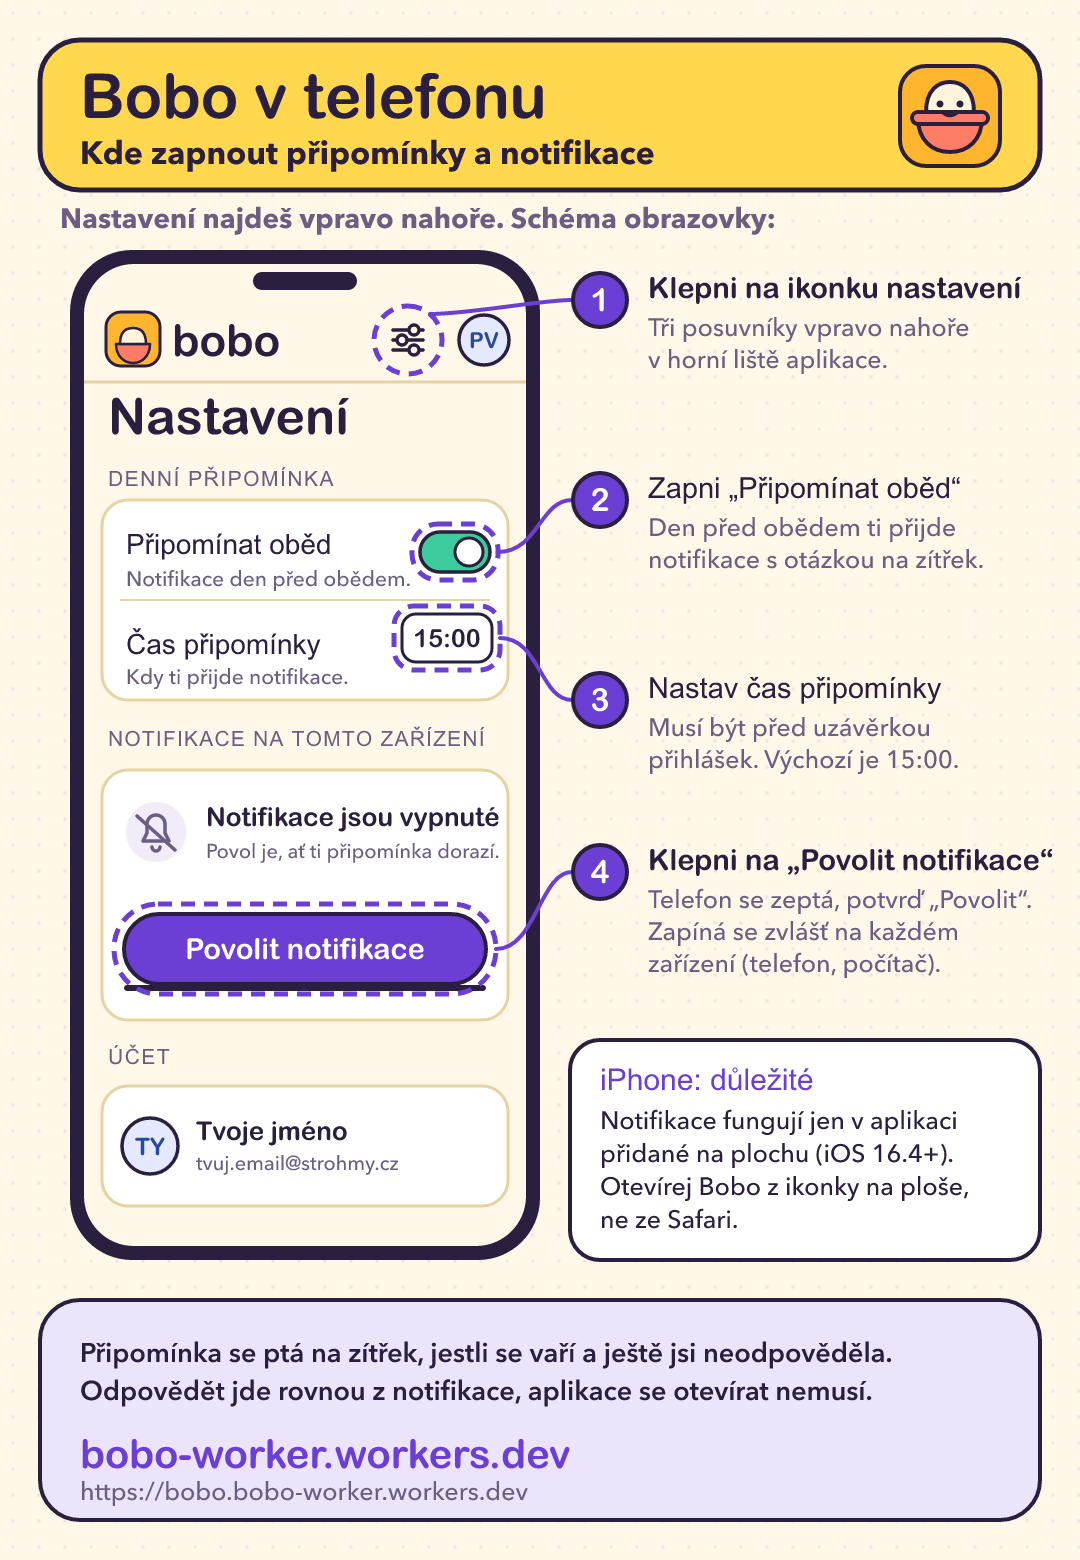
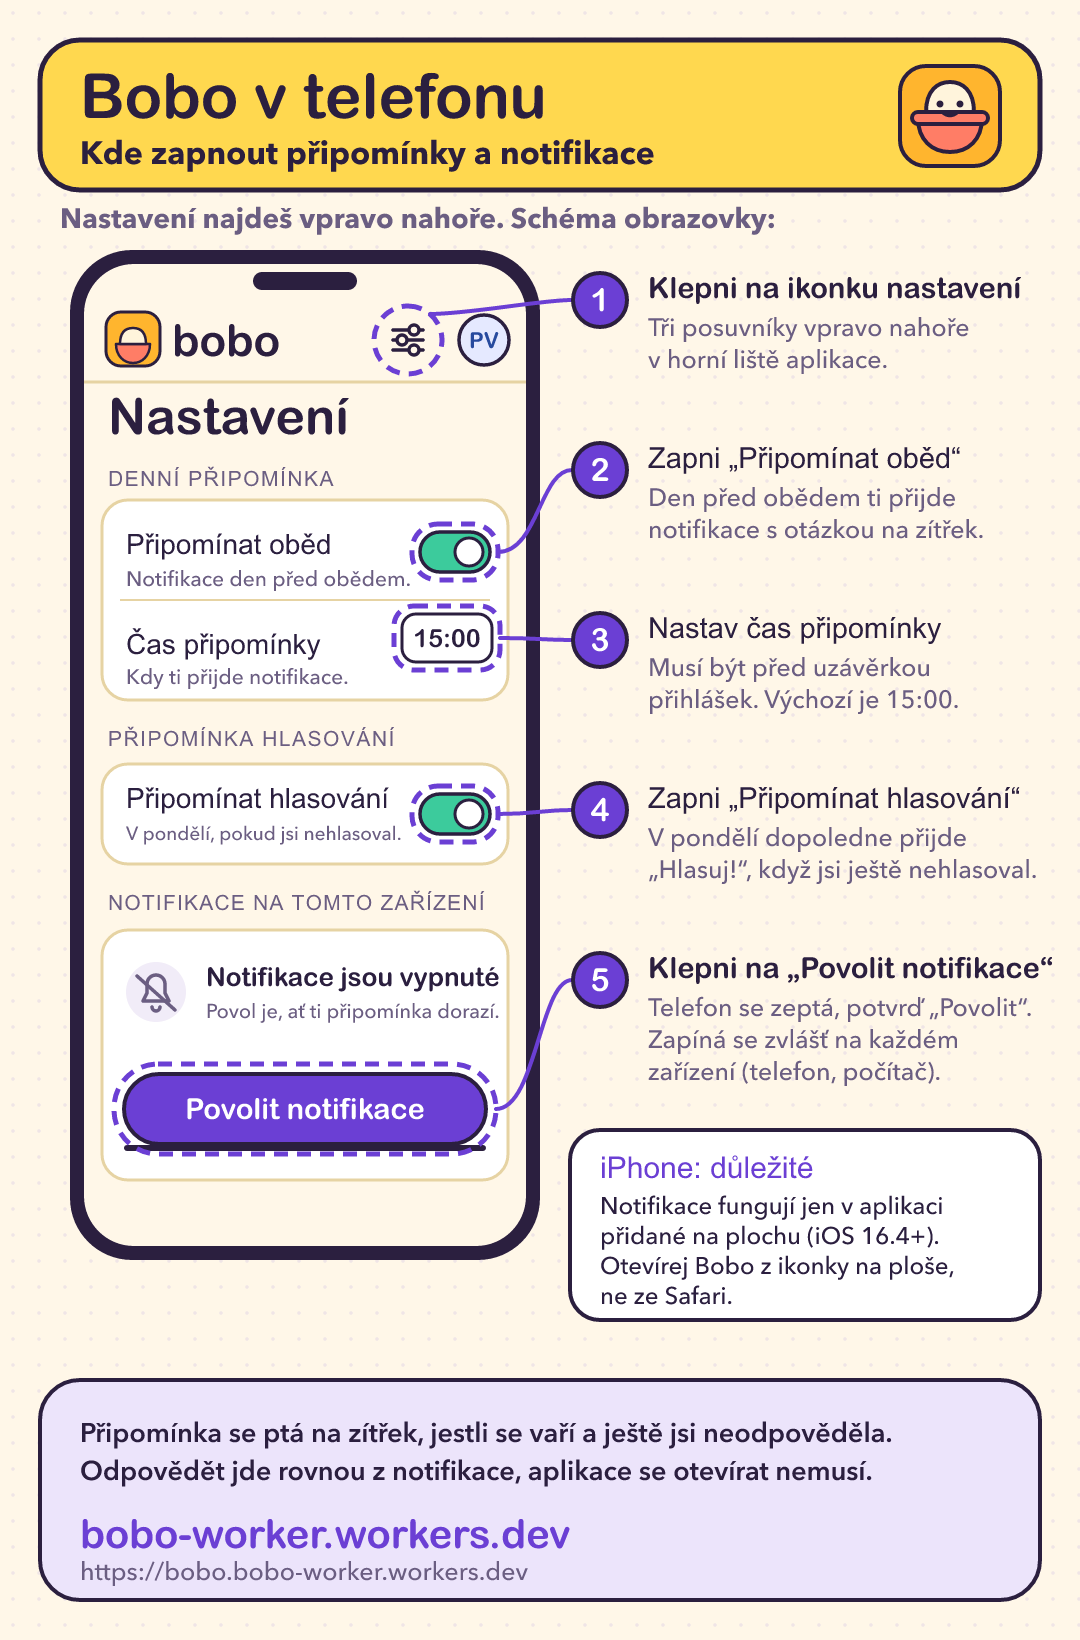
Připomínka hlasování: v pondělí 9-18 push Hlasuj! těm, kdo ještě nehlasovali
Nové nastavení v aplikaci (Připomínat hlasování, ve výchozím stavu zapnuto), tabulka
vote_reminder_log proti duplicitám, migrace 0004. Notifikace otevře /hlasuj a má vlastní
tag, takže nenahradí připomínku oběda. Návod a obrázek doplněny.

Changed region(s): [[0.0306, 0.0, 0.9778, 0.9846], [0.9167, 0.9538, 0.9472, 0.9846]]

diff --git a/worker/test/voteReminders.test.ts b/worker/test/voteReminders.test.ts
@@ -1,0 +1,145 @@
+import { env } from 'cloudflare:test';
+import { beforeEach, describe, expect, it } from 'vitest';
+import type { Env } from '../src/env';
+import { runVoteReminders, voteReminderDue, voteReminderPayload } from '../src/voteReminders';
+import { as, Clock, client, resetDb, type TestClient } from './helpers';
+import { decrypt, newSubscriptionKeys, newVapidKeys } from './pushCrypto';
+
+// Monday 2026-10-19 09:30 Prague: votes now count for the week of 26.10.
+const MON_0930 = new Date('2026-10-19T09:30:00+02:00');
+
+describe('vote reminder timing', () => {
+  it('is due on Monday between 09:00 and 18:00 Prague time only', () => {
+    expect(voteReminderDue(new Date('2026-10-19T08:59:00+02:00'))).toBe(false);
+    expect(voteReminderDue(new Date('2026-10-19T09:00:00+02:00'))).toBe(true);
+    expect(voteReminderDue(new Date('2026-10-19T17:59:00+02:00'))).toBe(true);
+    expect(voteReminderDue(new Date('2026-10-19T18:00:00+02:00'))).toBe(false);
+    expect(voteReminderDue(new Date('2026-10-20T09:30:00+02:00'))).toBe(false); // Tuesday
+    expect(voteReminderDue(new Date('2026-10-18T09:30:00+02:00'))).toBe(false); // Sunday
+  });
+
+  it('follows Prague time across the autumn DST switch', () => {
+    // Mon 2026-10-26 09:00 CET is 08:00 UTC; the day before it was still CEST.
+    expect(voteReminderDue(new Date('2026-10-26T07:59:00Z'))).toBe(false);
+    expect(voteReminderDue(new Date('2026-10-26T08:00:00Z'))).toBe(true);
+  });
+
+  it('builds a payload that opens the voting page and does not replace the lunch reminder', () => {
+    expect(voteReminderPayload('2026-10-26')).toEqual({
+      title: 'Hlasuj! 🍜',
+      body: 'Vyber, co budeme jíst týden od 26. 10. Máš 4 hlasy.',
+      url: '/hlasuj',
+      tag: 'bobo-vote',
+    });
+  });
+});
+
+describe('vote reminder job', () => {
+  let c: TestClient;
+  let pushed: string[];
+  const fakeFetch = (async (input: RequestInfo | URL) => {
+    pushed.push(new Request(input).url);
+    return new Response(null, { status: 201 });
+  }) as typeof fetch;
+  let pushEnv: Env;
+  const keysByEndpoint = new Map<string, Awaited<ReturnType<typeof newSubscriptionKeys>>>();
+
+  async function subscribe(who: string) {
+    const keys = await newSubscriptionKeys();
+    keysByEndpoint.set(`https://push.example/${who}`, keys);
+    await c.post('/api/push/subscribe', { endpoint: `https://push.example/${who}`, keys: { p256dh: keys.p256dh, auth: keys.auth } }, as(who));
+  }
+
+  beforeEach(async () => {
+    await resetDb();
+    pushed = [];
+    const clock = new Clock();
+    clock.now = MON_0930;
+    c = client(clock);
+    const vapid = await newVapidKeys();
+    pushEnv = { ...env, VAPID_PUBLIC_KEY: vapid.publicKey, VAPID_PRIVATE_KEY: vapid.privateKey } as Env;
+    for (const who of ['a@x.cz', 'voted@x.cz', 'off@x.cz', 'nosub@x.cz']) {
+      await c.get('/api/me', as(who)); // creates the user
+      if (who !== 'nosub@x.cz') await subscribe(who);
+    }
+    await c.put('/api/votes/koprovka', { voted: true }, as('voted@x.cz'));
+    await c.put('/api/me/vote-reminder', { enabled: false }, as('off@x.cz'));
+  });
+
+  it('reminds only people with a subscription, the switch on and no vote yet; never twice', async () => {
+    expect(await runVoteReminders(pushEnv, MON_0930, { fetch: fakeFetch })).toBe(1);
+    expect(pushed).toEqual(['https://push.example/a@x.cz']);
+    expect(await env.DB.prepare('SELECT user_id, week FROM vote_reminder_log').all().then((r) => r.results)).toEqual([{ user_id: 'a@x.cz', week: '2026-10-26' }]);
+    // a later tick on the same Monday sends nothing more
+    expect(await runVoteReminders(pushEnv, new Date('2026-10-19T09:31:00+02:00'), { fetch: fakeFetch })).toBe(0);
+    expect(await runVoteReminders(pushEnv, new Date('2026-10-19T15:00:00+02:00'), { fetch: fakeFetch })).toBe(0);
+    expect(pushed).toHaveLength(1);
+  });
+
+  it('sends nothing outside the Monday window', async () => {
+    expect(await runVoteReminders(pushEnv, new Date('2026-10-19T08:30:00+02:00'), { fetch: fakeFetch })).toBe(0);
+    expect(await runVoteReminders(pushEnv, new Date('2026-10-20T09:30:00+02:00'), { fetch: fakeFetch })).toBe(0);
+    expect(pushed).toHaveLength(0);
+  });
+
+  it('delivers late in the window when an earlier tick was missed', async () => {
+    expect(await runVoteReminders(pushEnv, new Date('2026-10-19T14:20:00+02:00'), { fetch: fakeFetch })).toBe(1);
+  });
+
+  it('stops asking someone who votes before the reminder, and starts a new round next week', async () => {
+    await c.put('/api/votes/rajska', { voted: true }, as('a@x.cz'));
+    expect(await runVoteReminders(pushEnv, MON_0930, { fetch: fakeFetch })).toBe(0);
+    // a week later the old votes belong to the previous round: both voters are asked again for the new week
+    expect(await runVoteReminders(pushEnv, new Date('2026-10-26T09:30:00+01:00'), { fetch: fakeFetch })).toBe(2);
+  });
+
+  it('skips inactive users', async () => {
+    await env.DB.prepare("UPDATE users SET active = 0 WHERE id = 'a@x.cz'").run();
+    expect(await runVoteReminders(pushEnv, MON_0930, { fetch: fakeFetch })).toBe(0);
+  });
+
+  it('logs before sending, so a failing push service never causes a repeat', async () => {
+    const failing = (async () => {
+      throw new Error('push service down');
+    }) as typeof fetch;
+    expect(await runVoteReminders(pushEnv, MON_0930, { fetch: failing })).toBe(1);
+    expect(await env.DB.prepare('SELECT COUNT(*) AS n FROM vote_reminder_log').first('n')).toBe(1);
+    expect(await runVoteReminders(pushEnv, MON_0930, { fetch: fakeFetch })).toBe(0);
+  });
+
+  it('pushes the payload that opens /hlasuj', async () => {
+    const sent: Request[] = [];
+    const capture = (async (input: RequestInfo | URL, init?: RequestInit) => {
+      sent.push(new Request(input, init));
+      return new Response(null, { status: 201 });
+    }) as typeof fetch;
+    await runVoteReminders(pushEnv, MON_0930, { fetch: capture });
+    const keys = keysByEndpoint.get(sent[0].url)!;
+    const body = new Uint8Array(await sent[0].arrayBuffer());
+    expect(JSON.parse(await decrypt(body, keys.privateKey, keys.p256dh, keys.auth))).toEqual(voteReminderPayload('2026-10-26'));
+  });
+});
+
+describe('vote reminder preference', () => {
+  let c: TestClient;
+  beforeEach(async () => {
+    await resetDb();
+    c = client(new Clock());
+  });
+
+  it('is on by default, can be switched and shows up in /me', async () => {
+    const me = async () => ((await (await c.get('/api/me', as('a@x.cz'))).json()) as { voteReminderEnabled: boolean }).voteReminderEnabled;
+    expect(await me()).toBe(true);
+    const res = await c.put('/api/me/vote-reminder', { enabled: false }, as('a@x.cz'));
+    expect(res.status).toBe(200);
+    expect(((await res.json()) as { voteReminderEnabled: boolean }).voteReminderEnabled).toBe(false);
+    expect(await me()).toBe(false);
+    await c.put('/api/me/vote-reminder', { enabled: true }, as('a@x.cz'));
+    expect(await me()).toBe(true);
+  });
+
+  it('validates the body and needs a signed-in user', async () => {
+    expect((await c.put('/api/me/vote-reminder', { enabled: 'yes' }, as('a@x.cz'))).status).toBe(422);
+    expect((await c.put('/api/me/vote-reminder', {})).status).toBe(401);
+  });
+});

diff --git a/worker/src/voteReminders.ts b/worker/src/voteReminders.ts
@@ -1,0 +1,82 @@
+/** Weekly push reminder to vote for next week's dishes, for people who have not voted yet. */
+import type { Env } from './env';
+import { sendToUser, type PushDeps } from './push';
+import { isoWeekday, localParts } from './tz';
+import { VOTES_PER_WEEK, votingWeek } from './votes';
+
+/** Monday, between 09:00 and 18:00 Prague time: a late cron tick still delivers, the log prevents repeats. */
+export const VOTE_REMINDER_WEEKDAY = 1;
+export const VOTE_REMINDER_FROM = '09:00';
+export const VOTE_REMINDER_UNTIL = '18:00';
+
+export function voteReminderDue(now: Date): boolean {
+  const p = localParts(now);
+  return isoWeekday(p.date) === VOTE_REMINDER_WEEKDAY && p.time >= VOTE_REMINDER_FROM && p.time < VOTE_REMINDER_UNTIL;
+}
+
+const votesWord = (n: number) => (n === 1 ? 'hlas' : n >= 2 && n <= 4 ? 'hlasy' : 'hlasů');
+
+export function voteReminderPayload(week: string) {
+  const [, m, d] = week.split('-').map(Number);
+  return {
+    title: 'Hlasuj! 🍜',
+    body: `Vyber, co budeme jíst týden od ${d}. ${m}. Máš ${VOTES_PER_WEEK} ${votesWord(VOTES_PER_WEEK)}.`,
+    url: '/hlasuj',
+    tag: 'bobo-vote',
+  };
+}
+
+/** Active users with a subscription and the switch on, who have no vote yet this week and were not reminded. */
+export async function dueVoteReminders(db: D1Database, now: Date): Promise<{ week: string; userIds: string[] }> {
+  const week = votingWeek(now);
+  if (!voteReminderDue(now)) return { week, userIds: [] };
+  const { results } = await db
+    .prepare(
+      `SELECT u.id FROM users u
+       WHERE u.active = 1 AND u.vote_reminder_enabled = 1
+         AND EXISTS (SELECT 1 FROM push_subscriptions s WHERE s.user_id = u.id)
+         AND NOT EXISTS (SELECT 1 FROM dish_votes v WHERE v.user_id = u.id AND v.week = ?1)
+         AND NOT EXISTS (SELECT 1 FROM vote_reminder_log l WHERE l.user_id = u.id AND l.week = ?1)
+       ORDER BY u.id`,
+    )
+    .bind(week)
+    .all<{ id: string }>();
+  return { week, userIds: results.map((r) => r.id) };
+}
+
+/** Send the reminders that are due; returns how many people were notified. */
+export async function runVoteReminders(env: Env, now: Date, deps: PushDeps = {}): Promise<number> {
+  const { week, userIds } = await dueVoteReminders(env.DB, now);
+  if (!userIds.length) return 0;
+  // Log first, so a crash while sending never causes a second reminder; only rows inserted here are sent.
+  const sentAt = new Date().toISOString();
+  const inserted = await env.DB.batch<{ user_id: string }>(
+    userIds.map((uid) =>
+      env.DB.prepare('INSERT INTO vote_reminder_log (user_id, week, sent_at) VALUES (?1, ?2, ?3) ON CONFLICT DO NOTHING RETURNING user_id').bind(
+        uid,
+        week,
+        sentAt,
+      ),
+    ),
+  );
+  const toSend = inserted.flatMap((r) => r.results.map((x) => x.user_id));
+  const payload = voteReminderPayload(week);
+  for (const uid of toSend) {
+    try {
+      await sendToUser(env, uid, payload, deps);
+    } catch (err) {
+      console.error(`vote reminder push failed for ${uid}:`, err);
+    }
+  }
+  console.log(`sent vote reminders for week ${week} to ${toSend.length} users`);
+  return toSend.length;
+}
+
+/** Cron entrypoint; never throws. */
+export async function voteReminderJob(env: Env, now: Date): Promise<void> {
+  try {
+    await runVoteReminders(env, now);
+  } catch (err) {
+    console.error('vote reminder job failed:', err);
+  }
+}

diff --git a/frontend/src/pages/Settings.tsx b/frontend/src/pages/Settings.tsx
@@ -31,6 +31,7 @@ export default function SettingsPage({ me, onMeChange }: { me: Me; onMeChange: (
   const { vapidPublicKey } = useConfig();
   const [time, setTime] = useState(me.reminderTime);
   const [saving, setSaving] = useState(false);
+  const [savingVote, setSavingVote] = useState(false);
   const [sub, setSub] = useState<SubState>('unknown');
   const [pushBusy, setPushBusy] = useState(false);
   const [permission, setPermission] = useState<NotificationPermission | 'unsupported'>(
@@ -73,6 +74,18 @@ export default function SettingsPage({ me, onMeChange }: { me: Me; onMeChange: (
   useEffect(() => {
     void refreshSub();
   }, []);
+
+  const setVoteReminder = async (enabled: boolean) => {
+    setSavingVote(true);
+    try {
+      onMeChange(await api<Me>('/me/vote-reminder', { method: 'PUT', body: { enabled } }));
+      toast(enabled ? 'Připomínka hlasování zapnuta' : 'Připomínka hlasování vypnuta', 'ok');
+    } catch (e) {
+      toast(errorMessage(e), 'error');
+    } finally {
+      setSavingVote(false);
+    }
+  };
 
   /** `checkTime`: validate against the deadline (always when enabling or editing the time). */
   const savePrefs = async (reminderEnabled: boolean, reminderTime: string, checkTime = reminderEnabled) => {
@@ -251,6 +264,30 @@ export default function SettingsPage({ me, onMeChange }: { me: Me; onMeChange: (
             </>
           )}
         </p>
+      )}
+
+      <h2 className="group-label">Připomínka hlasování</h2>
+      <section className="card group">
+        <div className="row">
+          <span className="row-icon tone-accent">
+            <Icon name="sparkle" size={18} />
+          </span>
+          <div className="row-text">
+            <span className="row-title">Připomínat hlasování</span>
+            <span className="row-sub">V pondělí dopoledne, pokud jsi ještě nehlasoval(a).</span>
+          </div>
+          <Toggle
+            label="Připomínat hlasování"
+            name="vote-reminder-enabled"
+            hideLabel
+            checked={me.voteReminderEnabled !== false}
+            disabled={savingVote}
+            onChange={setVoteReminder}
+          />
+        </div>
+      </section>
+      {me.voteReminderEnabled !== false && sub === 'none' && (
+        <Callout>Připomínka hlasování je zapnutá, ale toto zařízení nemá povolené notifikace — nic ti sem nepřijde.</Callout>
       )}
 
       {iosNeedsInstall && installSection}

diff --git a/worker/src/app.ts b/worker/src/app.ts
@@ -120,6 +120,7 @@ async function meJson(env: Env, user: UserRow) {
     isAdmin: isAdmin(user, env),
     reminderEnabled: user.reminder_enabled === 1,
     reminderTime: user.reminder_time,
+    voteReminderEnabled: user.vote_reminder_enabled === 1,
     pushSubscribed: sub !== null,
     reminderDeadline: reminderDeadline(cs),
     remindersPossible: cs.cutoffDaysBefore <= 1,
@@ -218,6 +219,14 @@ export function createApp(options: AppOptions = {}) {
     }
     const user = await c.env.DB.prepare('UPDATE users SET reminder_enabled = ?1, reminder_time = ?2 WHERE id = ?3 RETURNING *')
       .bind(enabled ? 1 : 0, time, c.get('user').id)
+      .first<UserRow>();
+    return c.json(await meJson(c.env, user!));
+  });
+
+  app.put('/me/vote-reminder', async (c) => {
+    const enabled = field(await jsonBody(c), 'enabled', isBool, 'boolean');
+    const user = await c.env.DB.prepare('UPDATE users SET vote_reminder_enabled = ?1 WHERE id = ?2 RETURNING *')
+      .bind(enabled ? 1 : 0, c.get('user').id)
       .first<UserRow>();
     return c.json(await meJson(c.env, user!));
   });

diff --git a/frontend/src/sw.ts b/frontend/src/sw.ts
@@ -19,6 +19,8 @@ interface PushPayload {
   date?: string;
   token?: string;
   url?: string;
+  /** Notifications with the same tag replace each other; the server sets it for non-lunch pushes. */
+  tag?: string;
 }
 
 interface NotificationData {
@@ -58,7 +60,7 @@ self.addEventListener('push', (event) => {
     body: payload.body ?? '',
     icon: ICON,
     badge: BADGE,
-    tag: payload.date ? `bobo-${payload.date}` : 'bobo',
+    tag: payload.tag ?? (payload.date ? `bobo-${payload.date}` : 'bobo'),
     data,
     actions: payload.token
       ? [

diff --git a/worker/src/index.ts b/worker/src/index.ts
@@ -2,12 +2,14 @@
 import { createApp } from './app';
 import type { Env } from './env';
 import { reminderJob } from './reminders';
+import { voteReminderJob } from './voteReminders';
 
 const app = createApp();
 
 export default {
   fetch: app.fetch,
   scheduled(controller, env, ctx) {
-    ctx.waitUntil(reminderJob(env, new Date(controller.scheduledTime)));
+    const now = new Date(controller.scheduledTime);
+    ctx.waitUntil(Promise.all([reminderJob(env, now), voteReminderJob(env, now)]));
   },
 } satisfies ExportedHandler<Env>;

diff --git a/frontend/src/types.ts b/frontend/src/types.ts
@@ -12,6 +12,8 @@ export interface Me {
   isAdmin: boolean;
   reminderEnabled: boolean;
   reminderTime: string;
+  /** Monday push reminder to vote for next week's dishes (only for people who have not voted yet). */
+  voteReminderEnabled: boolean;
   pushSubscribed: boolean;
   /** The reminder time must be strictly before this HH:MM (null = any time works). */
   reminderDeadline: string | null;

diff --git a/worker/test/helpers.ts b/worker/test/helpers.ts
@@ -17,6 +17,7 @@ export function as(email: string): Record<string, string> {
 export async function resetDb(): Promise<void> {
   const db = env.DB;
   await db.batch([
+    db.prepare('DELETE FROM vote_reminder_log'),
     db.prepare('DELETE FROM dish_votes'),
     db.prepare('DELETE FROM day_dishes'),
     db.prepare('DELETE FROM reminder_log'),

diff --git a/worker/test/api.test.ts b/worker/test/api.test.ts
@@ -40,6 +40,7 @@ describe('API', () => {
       isAdmin: false,
       reminderEnabled: false,
       reminderTime: '15:00',
+      voteReminderEnabled: true,
       pushSubscribed: false,
       reminderDeadline: '16:00',
       remindersPossible: true,

diff --git a/worker/src/auth.ts b/worker/src/auth.ts
@@ -27,6 +27,7 @@ export interface UserRow {
   active: number;
   reminder_enabled: number;
   reminder_time: string;
+  vote_reminder_enabled: number;
   created_at: string;
   last_seen_at: string | null;
 }

diff --git a/docs/navod/NAVOD.md b/docs/navod/NAVOD.md
@@ -26,10 +26,11 @@ Postup je na obrázku `navod-notifikace.png`. Notifikace se nastavují v **Nasta
 1. Klepni na ikonku **Nastavení** (vpravo nahoře).
 2. V sekci **Denní připomínka** zapni **Připomínat oběd**.
 3. Nastav **Čas připomínky**. Musí být před uzávěrkou přihlášek, výchozí je 15:00.
-4. V sekci **Notifikace na tomto zařízení** klepni na **Povolit notifikace** a v okně telefonu potvrď **Povolit**.
+4. V sekci **Připomínka hlasování** nech zapnuté **Připomínat hlasování** (je zapnuté od začátku).
+5. V sekci **Notifikace na tomto zařízení** klepni na **Povolit notifikace** a v okně telefonu potvrď **Povolit**.
 
 Notifikace se zapínají zvlášť na každém zařízení. Na iPhonu fungují jen v aplikaci přidané na plochu (iOS 16.4 nebo novější).
 
-Připomínka přijde den před obědem, pokud se zítra vaří a ještě jsi neodpověděl(a). Odpovědět jde přímo z notifikace.
+**Připomínka přihlášení na oběd** přijde den před obědem, pokud se zítra vaří a ještě jsi neodpověděl(a). Odpovědět jde přímo z notifikace.
 
-> Připomínka se týká **přihlášení na oběd**. Na hlasování o jídlech zatím žádná připomínka není.
+**Připomínka hlasování** přijde každé pondělí mezi 9. a 18. hodinou jen tomu, kdo ještě nehlasoval. Klepnutím se otevře stránka Hlasuj!.
